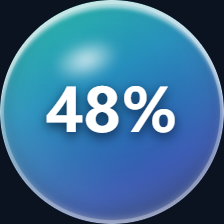
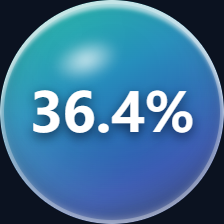
悬浮球截图换成带小数的那版，README 补一句可以拖动

Changed region(s): [[0.125, 0.375, 0.875, 0.625]]

diff --git a/README.md b/README.md
@@ -39,7 +39,7 @@
 </tr>
 </table>
 
-还有个可选的内存悬浮球，显示当前占用，点一下清理。
+还有个可选的内存悬浮球，显示当前占用，点一下清理，按住可以拖到任意位置。
 
 ![内存悬浮球](docs/screenshots/10-ball.png)
 
